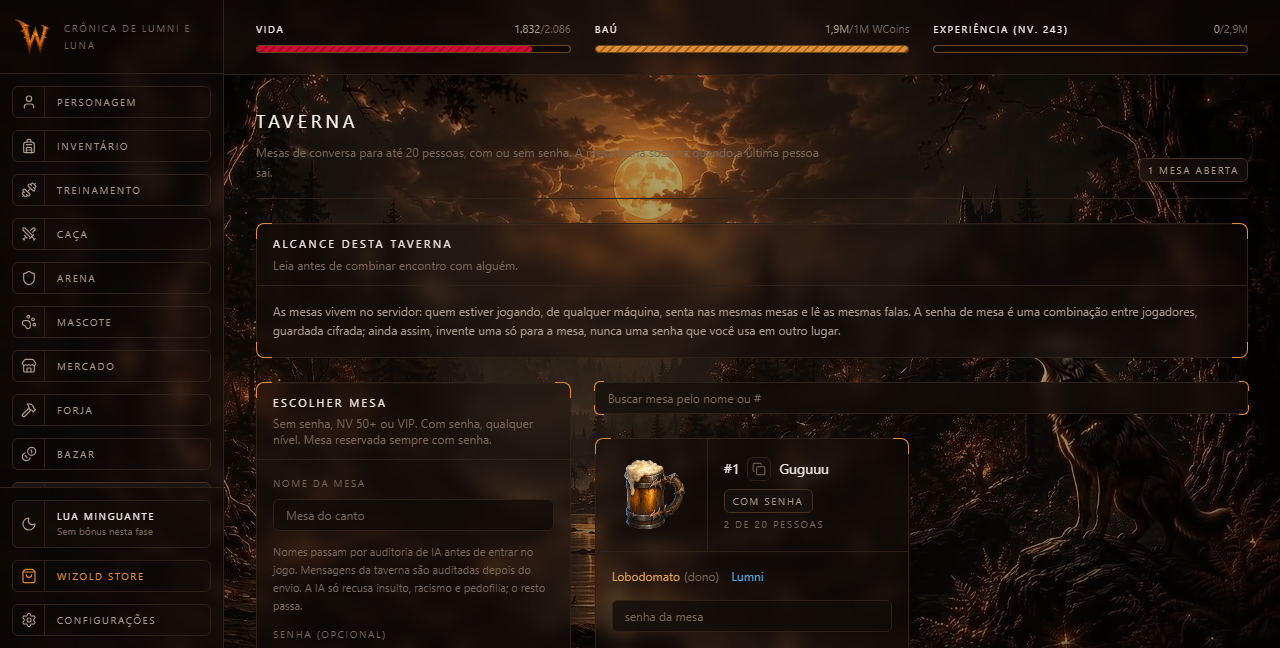
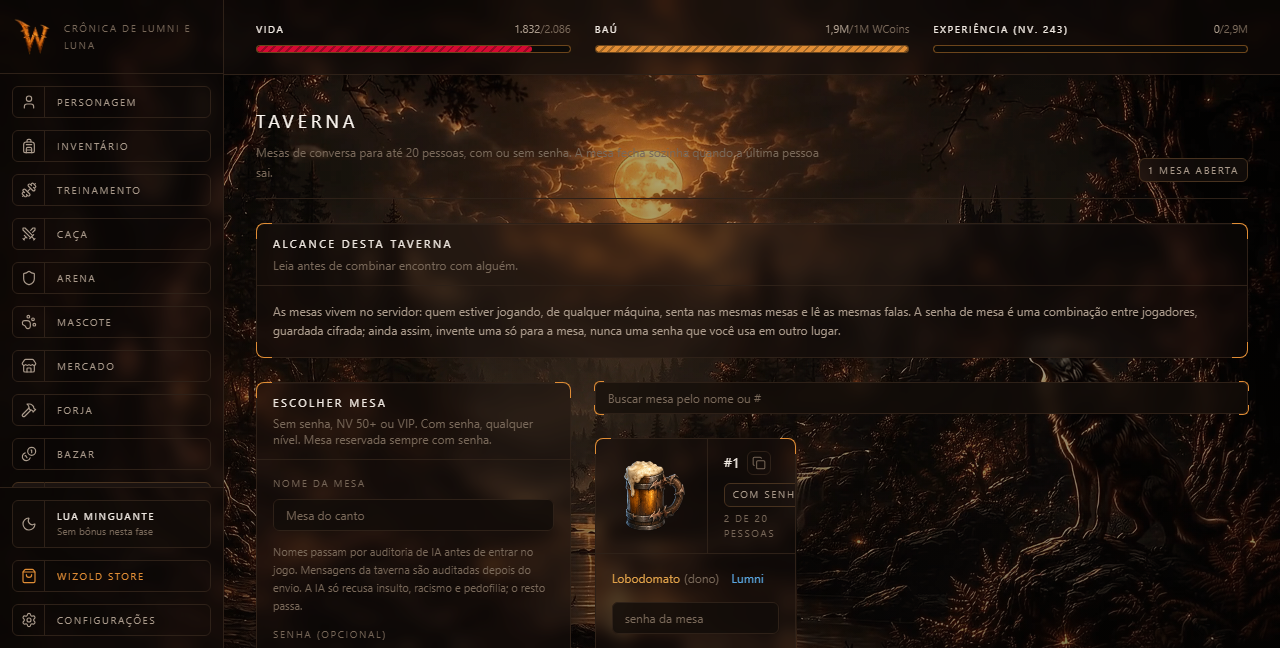
Landing: recaptura só a Taverna com o novo layout dos cards.

diff --git a/src/models/data/preview.ts b/src/models/data/preview.ts
@@ -66,8 +66,8 @@ export const PREVIEW_SHOTS: readonly PreviewShot[] = [
     label: "Taverna",
     title: "Mesas que não esperam refresh",
     text:
-      "Salas abertas ou trancadas, mensagens ao vivo, convite de matilha e aviso quando " +
-      "a cadeira acende.",
-    image: "/assets/landing/tavern.webp?v=11",
+      "Três mesas por linha, caneca em cada card e paginação quando o salão passa de nove. " +
+      "Salas abertas ou trancadas, mensagens ao vivo, convite de matilha e aviso quando a cadeira acende.",
+    image: "/assets/landing/tavern.webp?v=12",
   },
 ];
